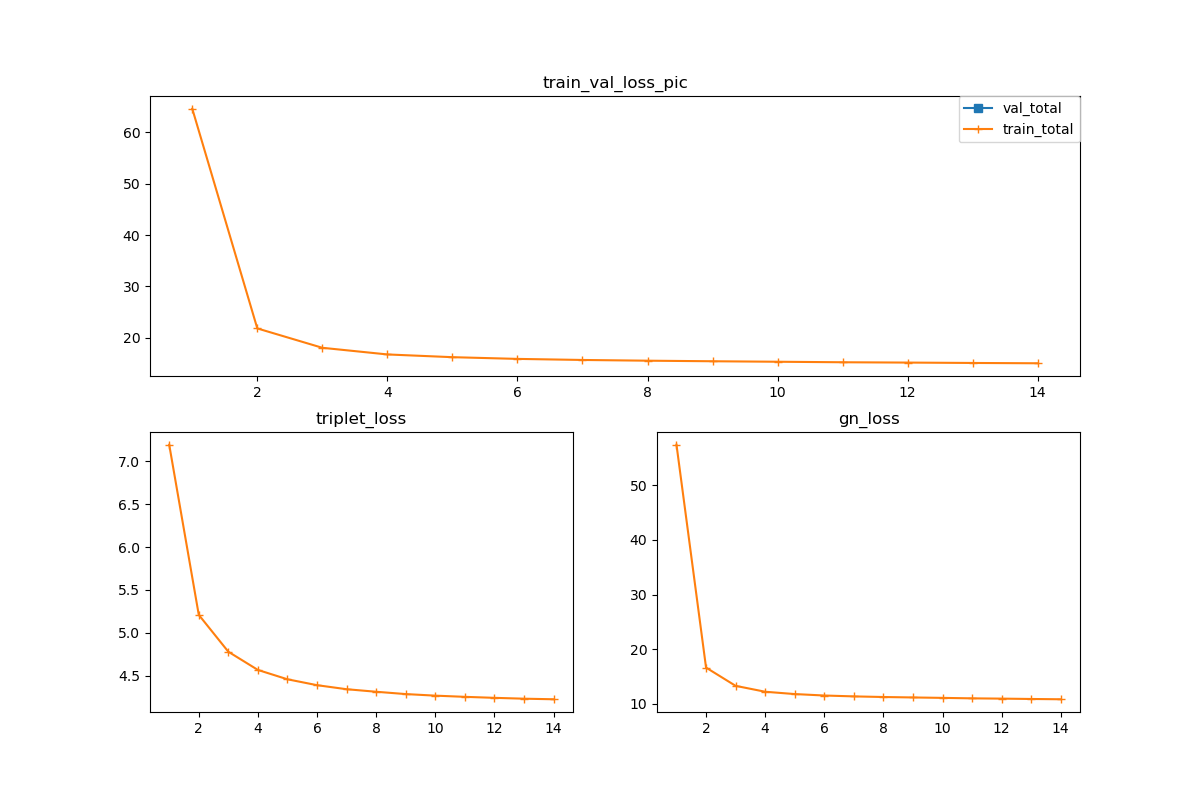
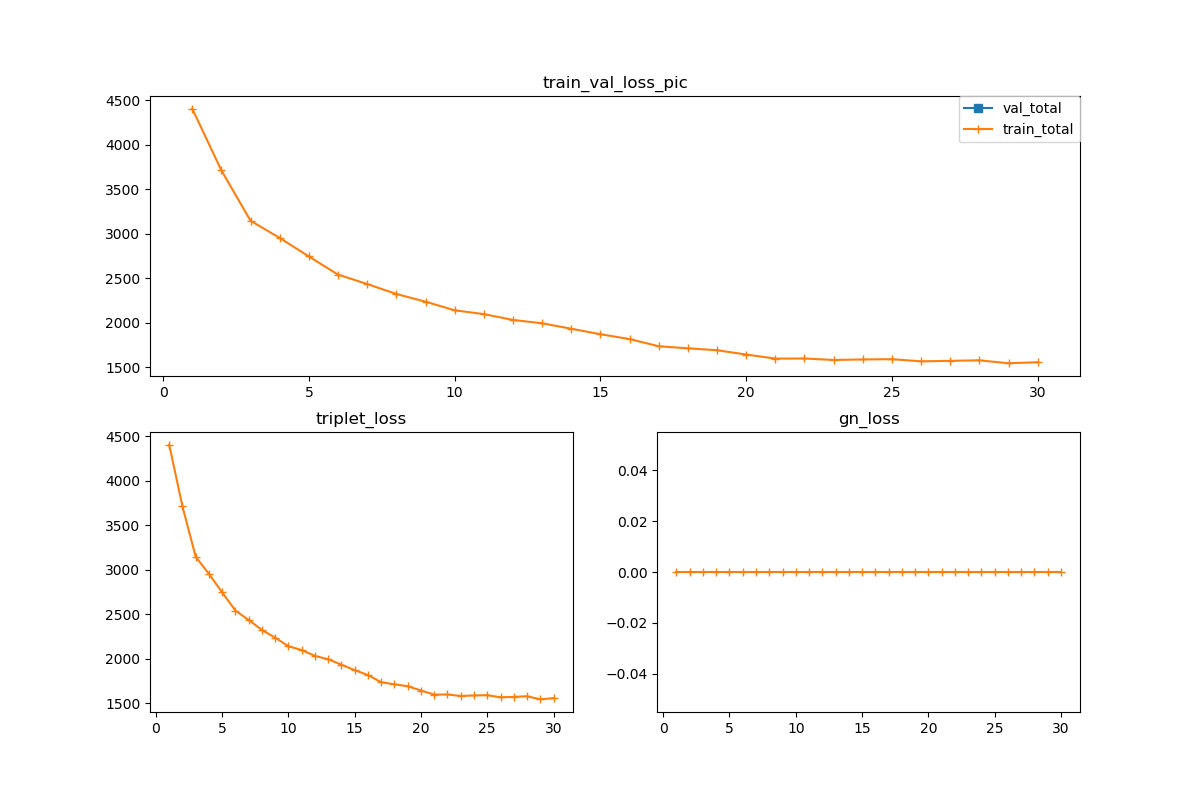
fix triplet

diff --git a/utils.py b/utils.py
@@ -259,18 +259,17 @@ class MyFunctionNegativeTripletSelector(TripletSelector):
     def __init__(self, margin):
         super(MyFunctionNegativeTripletSelector, self).__init__()
         self.margin = margin
-    def get_triplets(self, embedding1, embedding2, match_pos, scale, topM, dist_threshold, device):
+    def get_triplets(self, embedding1, embedding2, match_pos, scale, topM, dist_threshold):
         """
         embedding1: feature map of image 1, BxCxHxW
         embedding2: feature map of image 2, BxCxHxW
         match_pos: known positive matches, {'a':BxNx2,'b':BxNx2}
         topM: sort the negatives for each sample by loss in decreasing order and sample randomly over the top M
-        dist_threshold: minimal squared distance between anchor and neg
-        NOTE: for first trial, only sample on the finest scale
+        dist_threshold: minimal distance between anchor and neg
         """
-        # maybe it is not necessary to de this
-        embedding1 = embedding1.to(device)
-        embedding2 = embedding2.to(device)
+        # not necessary 
+        # embedding1 = embedding1.to(device)
+        # embedding2 = embedding2.to(device)
         
         a1 = match_pos['a'] / scale # anchors in img1
         a2 = match_pos['b'] / scale # anchors in img2
@@ -310,18 +309,27 @@ class MyFunctionNegativeTripletSelector(TripletSelector):
         # p_dist_in_1 = torch.norm(a1_rep-xy_in_1, p=2, dim=-1)
         mask_in_2 = p_dist_in_2 > dist_threshold
         # mask_in_1 = p_dist_in_1 > dist_threshold
-        dist_nn12_ok = mask_in_2 * dist_nn12 # B x (N: #anchors in 1) x topM
+        # dist_nn12_ok = mask_in_2 * dist_nn12 # B x (N: #anchors in 1) x topM
+        # dist_nn12_ok_sort = dist_nn12_ok.topk(topM, dim=-1, largest=)
         # print(dist_nn12_ok)
         # dist_nn21_ok = mask_in_1 * dist_nn21 # B x (N: #anchors in 2) x topM
         
-        dist_nn12_ok = dist_nn12_ok.reshape(B*N,-1)
+        # dist_nn12_ok = dist_nn12_ok.reshape(B*N,-1)
+        dist_nn12[mask_in_2]=float('inf')
+        dist_nn12 = dist_nn12.reshape(B*N, -1)
+
+        # loss_neg = dist_nn12_ok[torch.arange(B*N),torch.randint(0,topM,(B*N,))]
         # dist_nn21_ok = dist_nn21_ok.reshape(B*N,-1)
         "not sure /topM"
-        loss_neg = dist_nn12_ok.sum(-1)/topM  # ?
+        # loss_neg = dist_nn12_ok.sum(-1)/topM  # ?
+        # loss_neg = dist_nn12_ok.sum(-1)
         # print(loss_neg)
         # loss_pos = torch.norm(e1_sliced_ - e2_sliced_, p=2, dim=1)
         loss_pos = ((e1_sliced_ - e2_sliced_)**2).sum(-1)
+        loss_pos = loss_pos.reshape(B*N,1)
+        mdist = torch.clamp(loss_pos-dist_nn12+self.margin, min=0.0)
+        tmp = torch.mean(mdist, dim=1)
         # print(loss_pos)
-        mdist = torch.clamp(loss_pos-loss_neg+self.margin, min=0.0)
+        # mdist = torch.clamp(loss_pos-loss_neg+self.margin, min=0.0)
         # print(len(mdist[mdist>0]))
-        return torch.mean(mdist)
+        return torch.sum(tmp)

diff --git a/trainer.py b/trainer.py
@@ -52,7 +52,7 @@ def fit(train_loader, val_loader, model, loss_fn, optimizer, scheduler, n_epochs
         '''
 
         # Train stage
-        train_loss, total_contras_loss, total_gnloss = train_epoch(train_loader, model, loss_fn, optimizer, cuda, log_interval, save_root, init=False)
+        train_loss, total_contras_loss, total_gnloss = train_epoch(train_loader, model, loss_fn, optimizer, cuda, log_interval, save_root, epoch, init=False)
         train_x.append(epoch + 1)
         train_y.append(train_loss)
         train_y_contras.append(total_contras_loss)
@@ -149,11 +149,12 @@ def fit(train_loader, val_loader, model, loss_fn, optimizer, scheduler, n_epochs
         # plt.legend(bbox_to_anchor=(1.0, 1), loc=1, borderaxespad=0.)
         # plt.savefig("./gn_loss_pic.png")
         plt.savefig("./train_val_loss_pic.png")
+        plt.close()
 
 
 
 
-def train_epoch(train_loader, model, loss_fn, optimizer, cuda, log_interval, save_root, init):
+def train_epoch(train_loader, model, loss_fn, optimizer, cuda, log_interval, save_root, epoch, init):
     # initialize network parameters, oscillates a lot here. not good
     if init:
         for m in model.modules():
@@ -201,7 +202,9 @@ def train_epoch(train_loader, model, loss_fn, optimizer, cuda, log_interval, sav
         if corres_ab is not None:
             corres_ab = (corres_ab,)
             loss_inputs += corres_ab
-
+        # modified for triplet loss negative part
+        loss_inputs += (epoch,)
+        
         loss_outputs, contras_loss_outputs, gnloss_outputs = loss_fn(*loss_inputs)
         loss = loss_outputs[0] if type(loss_outputs) in (tuple, list) else loss_outputs
         contras_loss = contras_loss_outputs[0] if type(contras_loss_outputs) in (tuple, list) else contras_loss_outputs

diff --git a/network/gn_loss.py b/network/gn_loss.py
@@ -145,7 +145,7 @@ class GNLoss(nn.Module):
         e = e1 + 2 * e2 / 7
         return e
 
-    def forward(self, F_a, F_b, known_matches):
+    def forward(self, F_a, F_b, known_matches, epoch):
         '''
         F_a is a list containing 4 feature maps of different shapes
         1: B x C X H/8 x W/8
@@ -205,11 +205,11 @@ class GNLoss(nn.Module):
             '''compute triplet loss'''
             # loss_triplet = self.compute_triplet_loss(fa_sliced_pos, fb_sliced_pos, fb_sliced_neg)
             #TODO：topM=max(5,e(-...))
-            loss_triplet = self.pair_selector.get_triplets(F_a[i], F_b[i], positive_matches, self.img_scale*level, topM = 30, dist_threshold=20, device=device)
+            topM = np.clip(64*np.exp(-epoch*0.6/1000), a_min = 5, a_max=None)
+            loss_triplet = self.pair_selector.get_triplets(F_a[i], F_b[i], positive_matches, self.img_scale*level, topM = int(topM), dist_threshold=60/level)
             
             '''compute gn loss'''
             loss_gn = self.compute_gn_loss(fa_sliced_pos, F_b[i], positive_matches['b'] / (level * self.img_scale), level)  # //4
-            
             # loss = self.contrastive_lamda*(loss_pos + loss_neg) + (self.gn_lamda * loss_gn) + loss
             loss = self.contrastive_lamda*loss_triplet + (self.gn_lamda * loss_gn) + loss 
             # contras_loss = self.contrastive_lamda*(loss_pos + loss_neg) + contras_loss

diff --git a/run.py b/run.py
@@ -38,6 +38,8 @@ parser.add_argument('--resume_checkpoint', type=str, default=None)
 parser.add_argument('--nearest', type=bool, default=True, help="upsampling mode")
 parser.add_argument('--bilinear', type=bool, default=False, help="upsampling mode")
 parser.add_argument('--margin', type=float, default=1, help="triplet loss margin")
+parser.add_argument('--validate', type=bool, default=True, help="validate during training or not")
+
 
 args = parser.parse_args()
 # wandb.init(config=args)
@@ -91,7 +93,11 @@ torch.manual_seed(0)
 # number of trainset and number of valset should sum up to len(dataset)
 trainset, valset = torch.utils.data.random_split(dataset, [num_trainset, num_valset])
 train_loader = DataLoader(trainset, batch_size=args.batch_size, shuffle=True, num_workers=args.num_workers)
-val_loader = DataLoader(valset, batch_size=args.batch_size, shuffle=False, num_workers=args.num_workers)
+# modified 5.18 for debugging
+if args.validate:
+    val_loader = DataLoader(valset, batch_size=args.batch_size, shuffle=False, num_workers=args.num_workers)
+else:
+    val_loader = None
 
 '''set up the network and training parameters'''
 from network.gnnet_model import EmbeddingNet, GNNet
